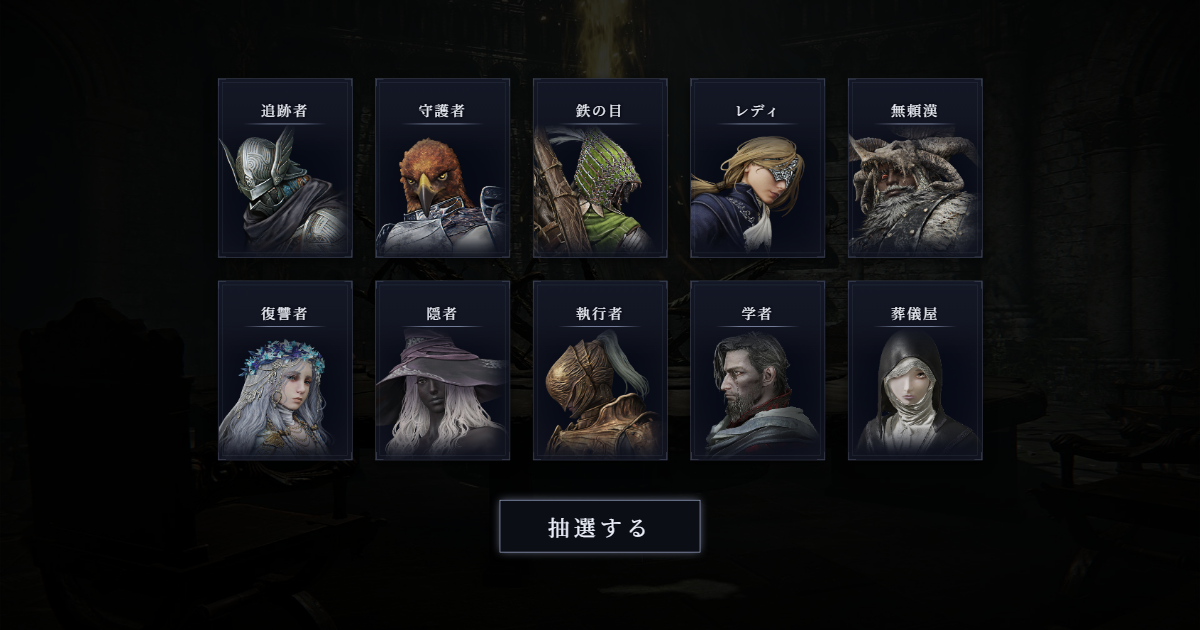
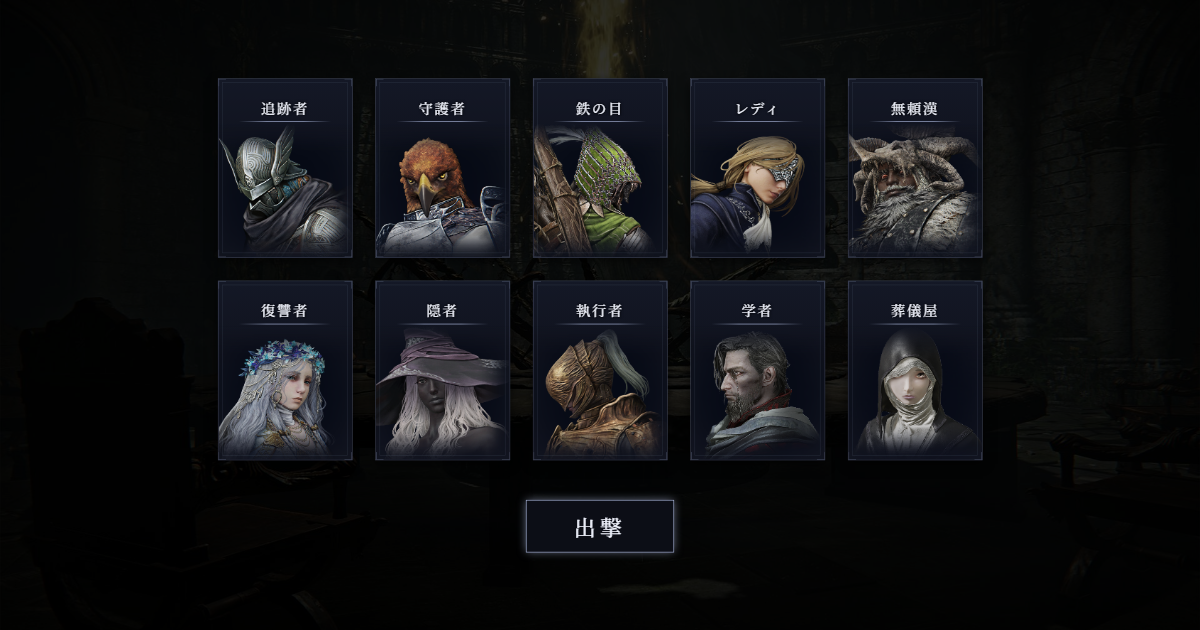
抽選ボタンを「出撃」に変更、英語版の抽選画面フォントを追加、OGP画像を撮り直し
- ボタン文言を「抽選する／もう一度抽選する」から「出撃／もう一度出撃」に
- 決定後の表示がONのときは「もう一度出撃」を出さない
- 英語版の抽選画面はCormorant Garamond（600・x-height調整）。判定はdata-lang
- 前回の削除でくっついた行を戻す

diff --git a/index.html b/index.html
@@ -16,7 +16,7 @@
 <link rel="icon" href="img/favicon.png">
 <link rel="preconnect" href="https://fonts.googleapis.com">
 <link rel="preconnect" href="https://fonts.gstatic.com" crossorigin>
-<link href="https://fonts.googleapis.com/css2?family=LINE+Seed+JP:wght@400;700&family=Noto+Serif+JP:wght@500;700&display=swap" rel="stylesheet">
+<link href="https://fonts.googleapis.com/css2?family=LINE+Seed+JP:wght@400;700&family=Noto+Serif+JP:wght@500;700&family=Cormorant+Garamond:wght@500;600;700&display=swap" rel="stylesheet">
 <style>
 :root{
   --gold:#b9c6ec;
@@ -33,6 +33,11 @@
   --font:"LINE Seed JP","Hiragino Sans","Yu Gothic","Meiryo",system-ui,sans-serif; /* 編集画面。遺物ページと同じ */
   --font-display:"Noto Serif JP","Hiragino Mincho ProN","Yu Mincho",serif; /* 抽選画面。ゲームに合わせて明朝 */
 }
+/* 英語版の抽選画面は英字用のセリフ体を先に当てる（明朝の英字は細くて地味なため）。
+   langはブラウザの翻訳で書き換わるので、専用のdata-langで判定する */
+html[data-lang="en"]{--font-display:"Cormorant Garamond","Noto Serif JP",serif}
+/* Cormorantは字が小さく細いので、太さを上げ、x-heightを揃えて約1.15倍に見せる（0.386→0.44） */
+html[data-lang="en"] body.display,html[data-lang="en"] .pp-card{font-weight:600;font-size-adjust:.44}
 *{box-sizing:border-box}
 html,body{margin:0;height:100%;background:transparent;color:var(--text);
   font-family:var(--font)}
@@ -82,7 +87,7 @@ body.edit{background:#0f0e14;font-size:14px}
 #result .cell{transform:none;animation:pulse 1.4s ease-in-out infinite;border-color:var(--gold)}
 /* 結果画面は下に名前が出るので、カード上の見出しは出さない */
 #result .cell .label{display:none}
-/* 「抽選する」ボタン（一覧側は抽選画面の大きさに合わせて縮める。結果側は結果ごと縮むので等倍） */
+/* 抽選ボタン（一覧側は抽選画面の大きさに合わせて縮める。結果側は結果ごと縮むので等倍） */
 .draw-btn{--b:var(--bs,1);flex:none;margin-top:calc(80px * var(--b));padding:calc(20px * var(--b)) calc(96px * var(--b));font:inherit;font-size:calc(44px * var(--b));
   letter-spacing:.2em;color:#eef1fb;background:rgba(14,16,26,.85);border:1px solid var(--gold);cursor:pointer;
   box-shadow:0 0 calc(18px * var(--b)) var(--gold-soft);transition:opacity .3s,background .2s,box-shadow .2s}
@@ -135,10 +140,12 @@ body.edit{background:#0f0e14;font-size:14px}
 .social:hover{color:var(--gold);border-color:var(--gold)}
 .ed-foot{margin-top:48px;padding-top:16px;border-top:1px solid var(--line);color:var(--muted);font-size:12.5px;line-height:1.8}
 .ed-foot p{margin:12px 0 0}
-.foot-links{display:flex;align-items:center;gap:10px;flex-wrap:wrap;min-height:36px}.foot-label{width:8em;box-sizing:border-box;text-align:center;padding:2px 8px;font-size:11.5px;color:var(--muted);border:1px solid var(--line);border-radius:4px}
+.foot-links{display:flex;align-items:center;gap:10px;flex-wrap:wrap;min-height:36px}
+.foot-label{width:8em;box-sizing:border-box;text-align:center;padding:2px 8px;font-size:11.5px;color:var(--muted);border:1px solid var(--line);border-radius:4px}
 .foot-name{color:var(--text);font-size:13.5px}
 .ed-foot .social{width:30px;height:30px}
-.ed-foot .social svg{width:16px;height:16px}.ed-cols{display:grid;grid-template-columns:minmax(0,1fr) minmax(0,1fr);gap:24px;align-items:start}
+.ed-foot .social svg{width:16px;height:16px}
+.ed-cols{display:grid;grid-template-columns:minmax(0,1fr) minmax(0,1fr);gap:24px;align-items:start}
 .ed-cols.wide-left{grid-template-columns:minmax(0,3fr) minmax(0,2fr)}
 @media (max-width:860px){.ed-cols,.ed-cols.wide-left{grid-template-columns:1fr}}
 .ed-wrap h2{font-size:16px;margin:22px 0 10px;padding-bottom:6px;border-bottom:1px solid var(--line);color:var(--accent);font-weight:700}
@@ -230,8 +237,8 @@ var I18N = {
     heading:'ナイトレイン キャラランダムツール',
     lead:'次に出撃するキャラを抽選するツール。OBSのブラウザソースとしても使えます',
     empty:'抽選対象がありません',
-    draw:'抽選する',
-    again:'もう一度抽選する',
+    draw:'出撃',
+    again:'もう一度出撃',
     next:'次の出撃',
     preview:'プレビュー',
     count:'{0} / {1}件',
@@ -259,7 +266,7 @@ var I18N = {
     bgH:'背景色', bgChk:'背景色を付ける', bgNote:'チェックを外しているときは背景が透過されます。',
     pinH:'決定後の表示', pinChk:'決定したキャラを指定した位置に表示する',
     pinNote:'結果画面を5秒表示した後、決定したキャラのカードだけを指定した位置に切り替えて表示します。位置は1920×1080の画面の左上を0としています。',
-    btnH:'抽選ボタン', btnChk:'画面に「抽選する」ボタンを表示する',
+    btnH:'抽選ボタン', btnChk:'画面に「出撃」ボタンを表示する',
     btnNote:'ボタンは配信画面にも映ります。映したくない場合はチェックを外してください（ソースを右クリック→「対話」を開き、画面をクリックしてからSpaceキーを押すと抽選できます）。',
     autoH:'自動で抽選する', autoChk:'画面が表示されたら自動で抽選する',
     autoNote:'ページを開いたときや、シーンを切り替えたりソースを表示し直したりしたときに、自動で抽選が始まります。',
@@ -267,9 +274,10 @@ var I18N = {
     howtoH:'OBSでの使い方',
     step1:'必要に応じて下の「オプション」を設定してから、「抽選画面のURL」の「コピー」を押してください。',
     step2:'OBSで「ソース」→「ブラウザ」を追加し、URL欄に貼り付けてください。サイズは幅1920・高さ1080に設定してください。',
-    step3:'抽選するときは、ソースを右クリック→「対話」を開き、「抽選する」ボタンを押すか、画面をクリックしてからSpaceキーを押してください。「自動で抽選する」にチェックを入れると、シーンを切り替えたりソースを表示し直したりするたびに自動で抽選されます。',
+    step3:'抽選するときは、ソースを右クリック→「対話」を開き、「出撃」ボタンを押すか、画面をクリックしてからSpaceキーを押してください。「自動で抽選する」にチェックを入れると、シーンを切り替えたりソースを表示し直したりするたびに自動で抽選されます。',
     howtoNote:'※設定を変えるとURLも変わるため、OBS側のURLも貼り直してください。',
-    author:'作成者', authorName:'えすさん',    disclaimer:'※このツールは非公式のファンツールです。ゲームの開発元・販売元とは関係ありません。ゲーム画像の著作権は各権利者に帰属します。'
+    author:'作成者', authorName:'えすさん',
+    disclaimer:'※このツールは非公式のファンツールです。ゲームの開発元・販売元とは関係ありません。ゲーム画像の著作権は各権利者に帰属します。'
   },
   en:{
     title:'NIGHTREIGN Random Nightfarer Picker (OBS Ready)',
@@ -315,7 +323,8 @@ var I18N = {
     step2:'In OBS, add a "Browser" source under "Sources" and paste the URL. Set the width to 1920 and the height to 1080.',
     step3:'To draw, right-click the source → "Interact", then click the "Draw" button, or click the screen and press Space. With "Auto Draw" checked, a draw runs every time you switch scenes or show the source again.',
     howtoNote:'* Changing settings also changes the URL, so paste the new URL into OBS again.',
-    author:'Created by', authorName:'esusan',    disclaimer:'* This is an unofficial fan tool, not affiliated with the game\'s developer or publisher. Game images are the property of their respective owners.'
+    author:'Created by', authorName:'esusan',
+    disclaimer:'* This is an unofficial fan tool, not affiliated with the game\'s developer or publisher. Game images are the property of their respective owners.'
   }
 };
 var LANG = 'ja';
@@ -388,6 +397,7 @@ if(params.get('lang') === 'en' || params.get('lang') === 'ja') state.lang = para
 else if(!params.get('d')) state.lang = /^ja/i.test(navigator.language || '') ? 'ja' : 'en';
 LANG = state.lang;
 document.documentElement.lang = LANG;
+document.documentElement.setAttribute('data-lang', LANG);
 document.title = t('title');
 
 function charOf(e){ for(var i=0;i<CHARS.length;i++){ if(CHARS[i].id === e.charId) return CHARS[i]; } return {name:{ja:'?'}, color:'#555', img:''}; }
@@ -598,7 +608,8 @@ function startDisplay(){
     resultEl.innerHTML = '';
     resultEl.appendChild(big);
     resultEl.appendChild(el('div', {className:'r-text'}, [el('div', {className:'r-label', text:t('next')}), rName]));
-    var againBtn = drawButton(t('again'));
+    // 決定後の表示がONなら、結果画面はすぐ切り替わって押せないので「もう一度」は出さない
+    var againBtn = state.pin.on ? null : drawButton(t('again'));
     if(againBtn) resultEl.appendChild(againBtn);
     resultEl.classList.add('show');
     running = false;
